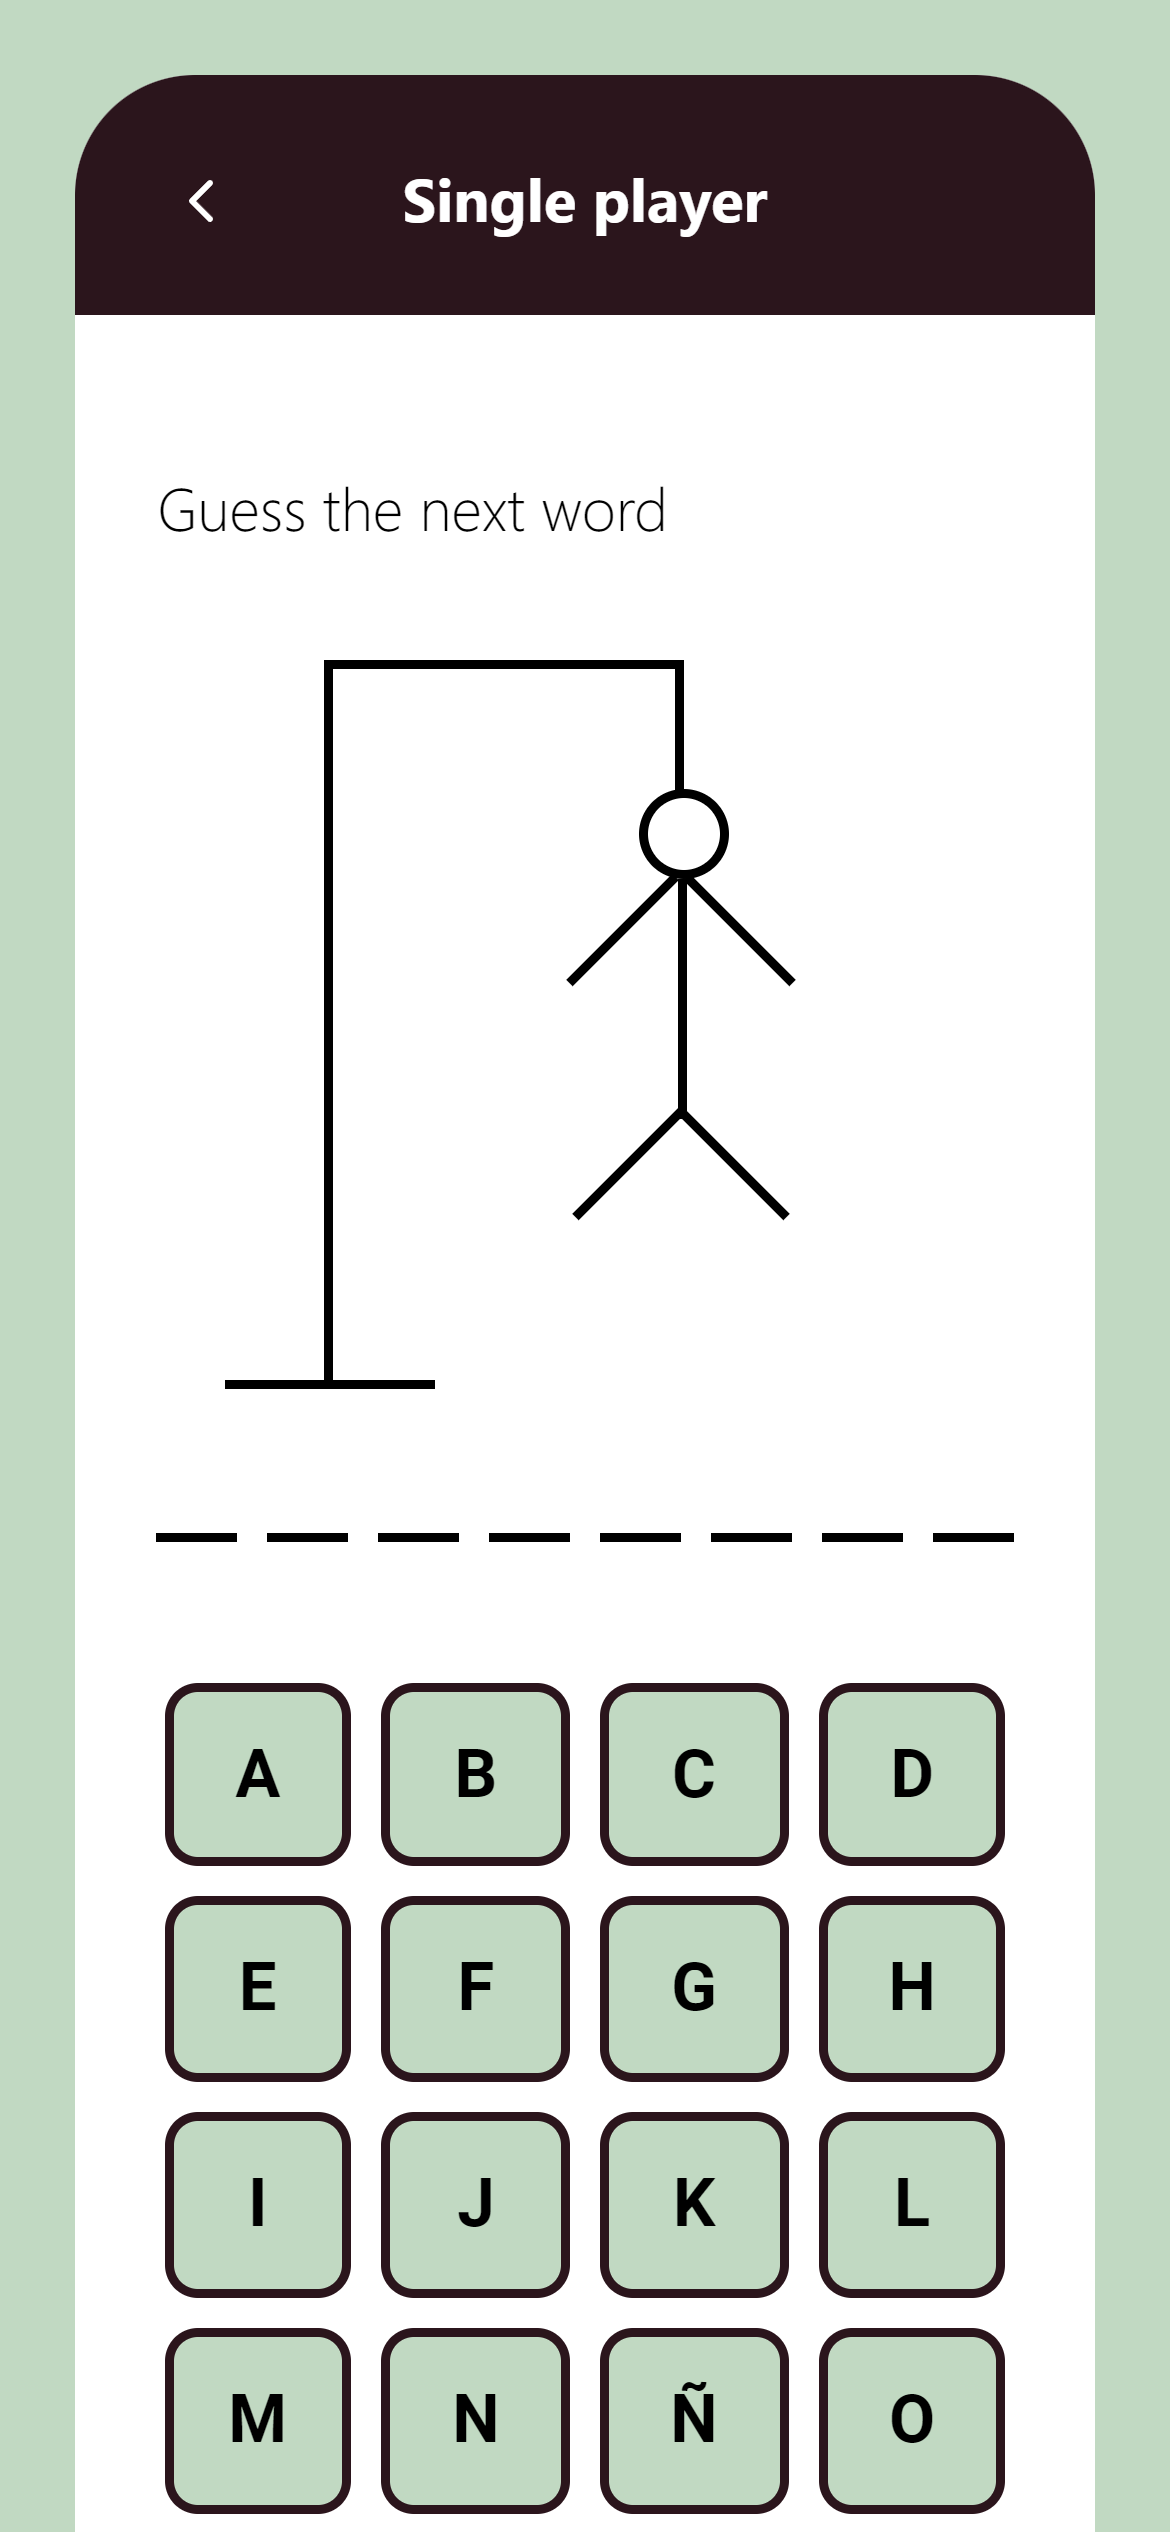
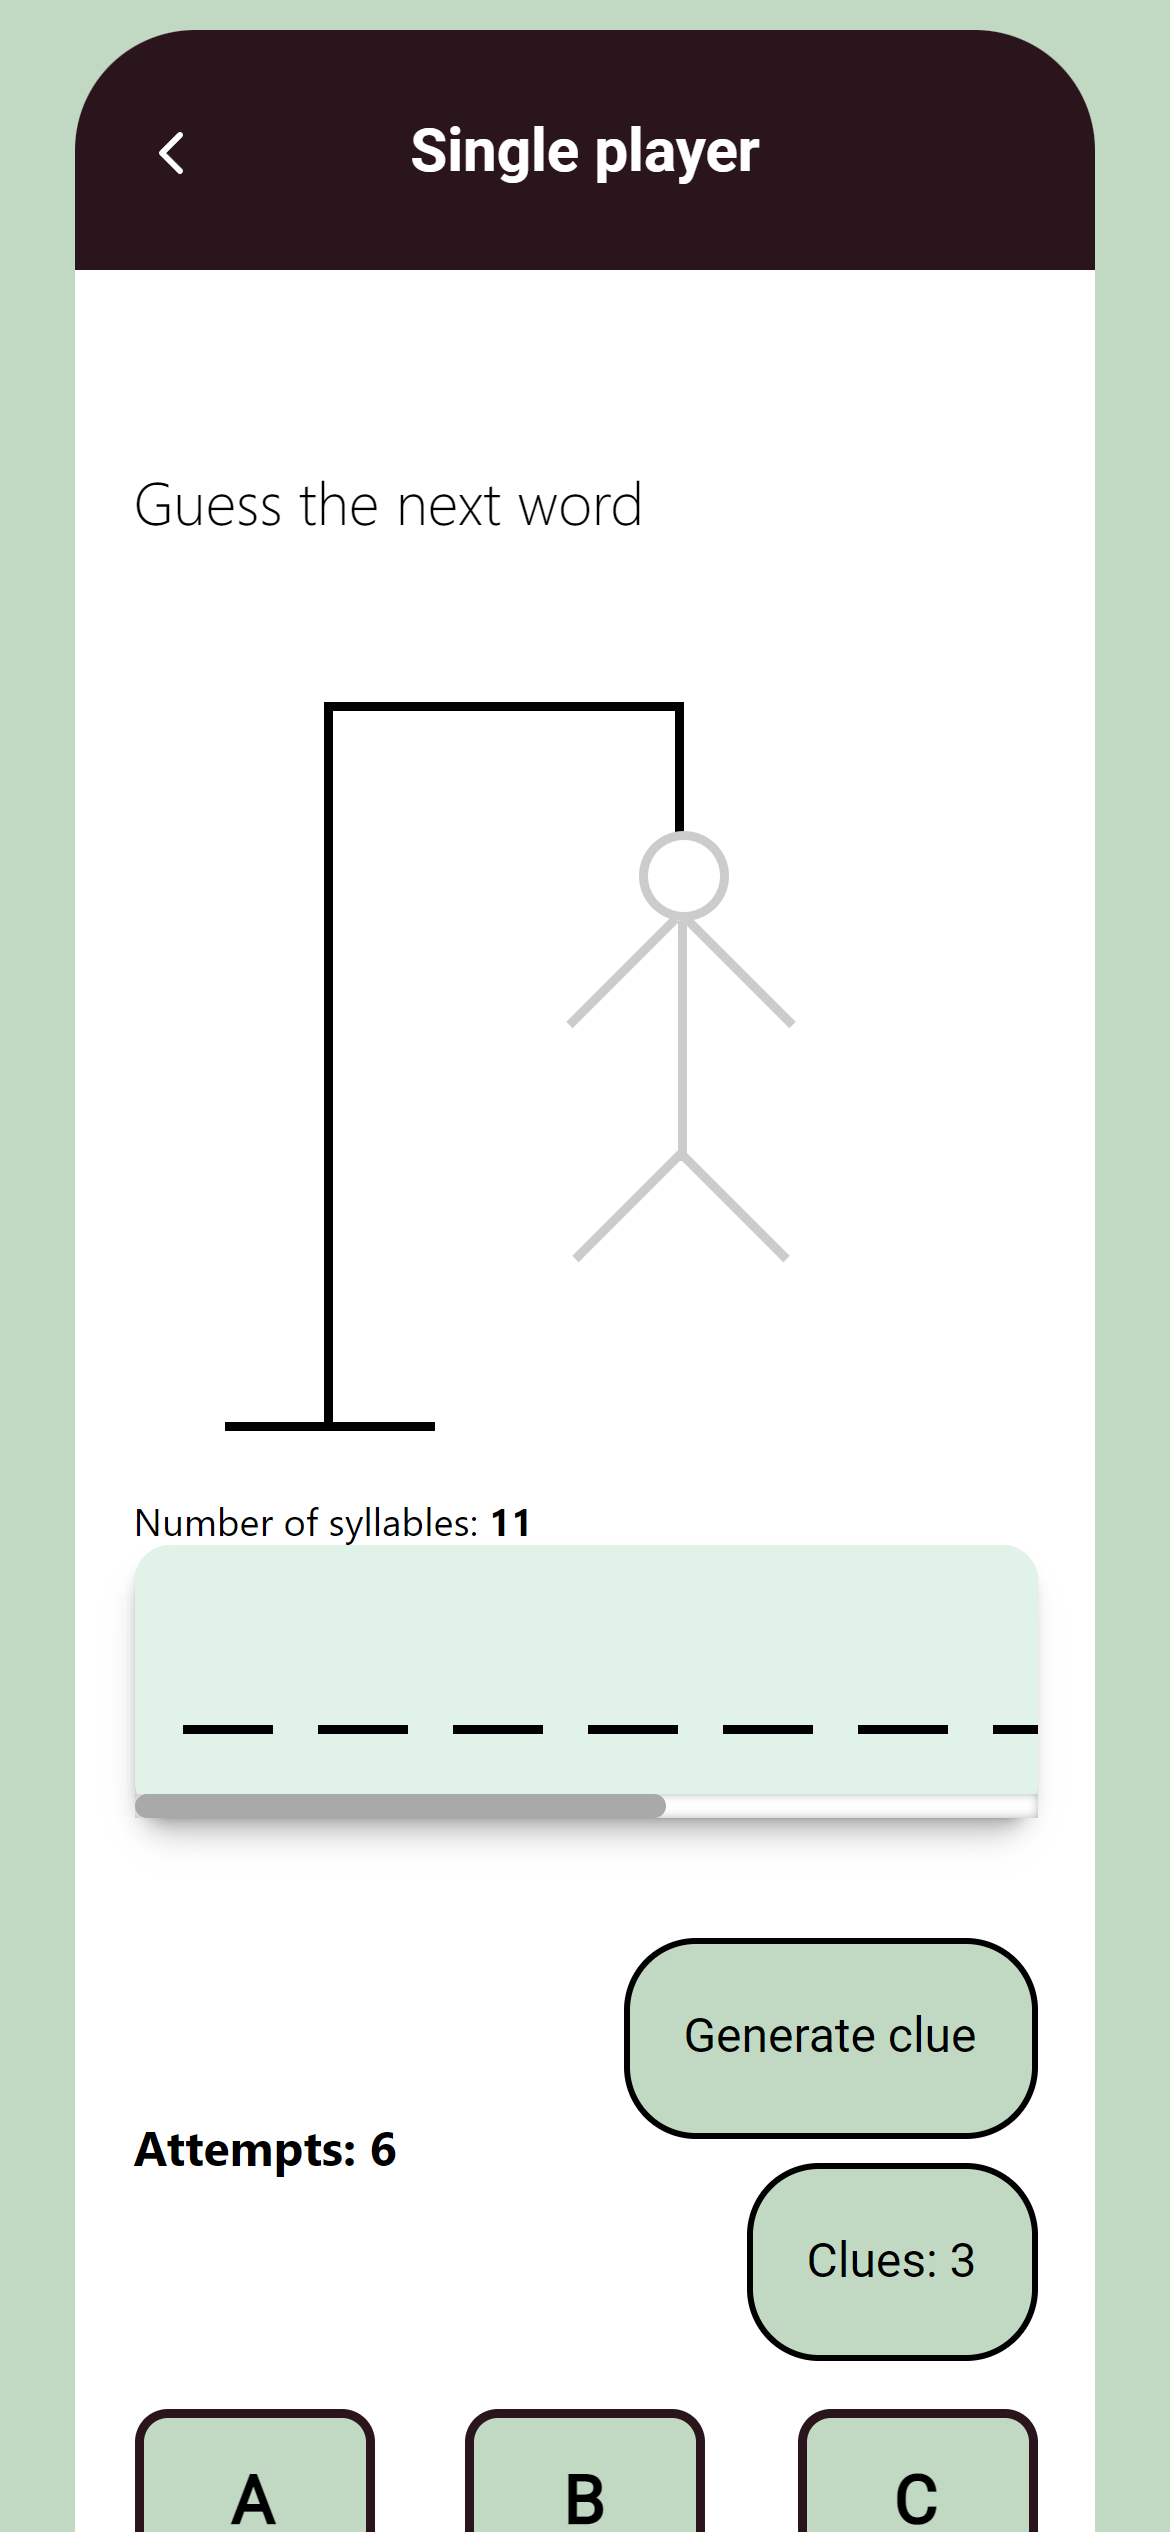
update readme

diff --git a/README.md b/README.md
@@ -2,7 +2,9 @@ HI! 🥰
 
 This is my first project with React/NextJS made thanks by Midudev's tutorials 😁
 
-[UPDATE 25/01/2023 - Hackathon "Cohere" by Midudev]: This new version will generate words by IA with "Cohere" and will have huge changes. Flask API in heroku will deleted and the project will use the API routes from next.js. The current version (developed 10 months ago) was deprecated, mongoDB was deleted and the flask API was uploaded on Heroku free plan.
+[UPDATE 25/01/2023 - Hackathon "Cohere" by Midudev]: This new version will generate words by IA with "Cohere" and will have huge changes. Flask API in heroku will removed and the project will use the API routes from next.js. The current version (developed 10 months ago) is deprecated, mongoDB was deleted from MongoDB Cloud and the flask API was uploaded on Heroku free plan.
+
+[UPDATE 07/01/2023 - Release day for Hackathon]: The current version use Cohere, which generates the words according to a series of parameters and MongoDB (in Railway) to give feedback on the words autogenerated by the AI
 
 ## Table of contents
 
@@ -24,8 +26,8 @@ Making this project was really fun and totally easy to do thanks to Midudev's tu
 
 Users should be able to:
 
-- Play in single player with a difficult selector.
-- Play in multiplayer with another person.
+- Play in single player with a difficult and topic selector.
+- Create custom words, and send it towards to ther friends.
 
 ### Screenshot
 
@@ -33,14 +35,12 @@ Users should be able to:
   ![](./readme_sources/menu.png)
 - Idiom
   ![](./readme_sources/idiom.png)
-- Singleplayer menu
-  ![](./readme_sources/menu_singleplayer.png)
+- Gameplay
+  ![](./readme_sources/gameplay.png)
 - Idiom
   ![](./readme_sources/idiom.png)
 - A victory
-  ![](./readme_sources/has_ganado.png)
-- Multiplayer online
-  ![](./readme_sources/multiplayer.png)
+  ![](./readme_sources/you-win.png)
 
 ## My process
 
@@ -49,22 +49,20 @@ Users should be able to:
 - React
 - Next JS
 - Vercel
-- API Flask with Python (deployed on Heroku)
-- MongoDB (thanks to MongoDB Atlas)
+- MongoDB (Railway)
 - CSS Style components
 
 ### What I learned
 
-I've learned how to use React with Next JS. Link my Front-end with a Back-end thanks to API Flask and MongoDB Atlas.
+I've learned how to use React with Next JS.
 I have learned too how to add I18N in an extremely simple way thanks to the latest Midudev tutorial. 😍
-I am also proud of the way I handle "responsive design" making a First Mobile design (with Adobe XD), I didn't know that was helpful but yeah, it is!! 😂
+I am also proud of the way I handle "responsive design" making a First Mobile design (with Adobe Xd), I didn't know that was helpful but yeah, it is!! 😂
 
 ### Useful resources
 
 - [Aprende React](https://www.youtube.com/watch?v=T_j60n1zgu0&list=PLV8x_i1fqBw0B008sQn79YxCjkHJU84pC) - These tutorials taught me how to use React from scratch and I highly recommend them.
-- [Aprende NextJS](https://www.youtube.com/c/midudev) - Currently (13/04/2022), they are not available on youtube, but only on [Midudev's twitch channel](https://www.twitch.tv/midudev), which as you may already know, will be deleted after 2 months. So it will be to be patient.
-- [Getting Started With Flask-RESTful API And Deploying to Heroku](https://medium.com/analytics-vidhya/flask-restful-api-with-heroku-da1ecf3e04b) - This helped me how to deploy my Back-end on Heroku with https.
+- [Aprende NextJS](https://www.youtube.com/watch?v=pFT8wD2uRSE) - With this tutorial I have learned how to develop in Next.js (version 12).
 
 ## Author
 
-- [Renato Granados](https://www.linkedin.com/in/renato-granados-636935233/)
+- [Renato Granados](https://www.renatogranados.dev)
